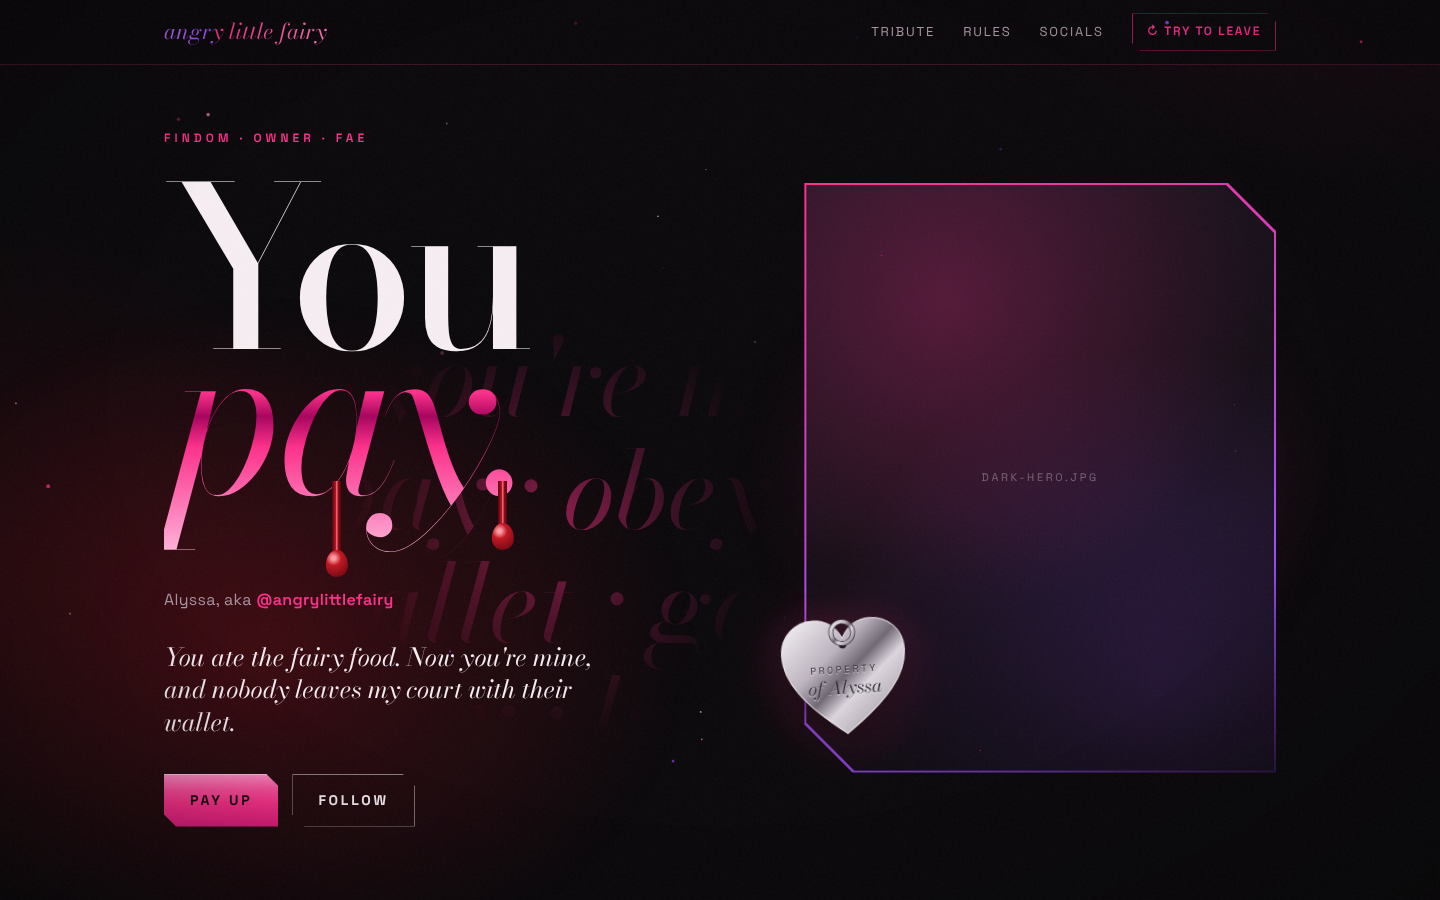
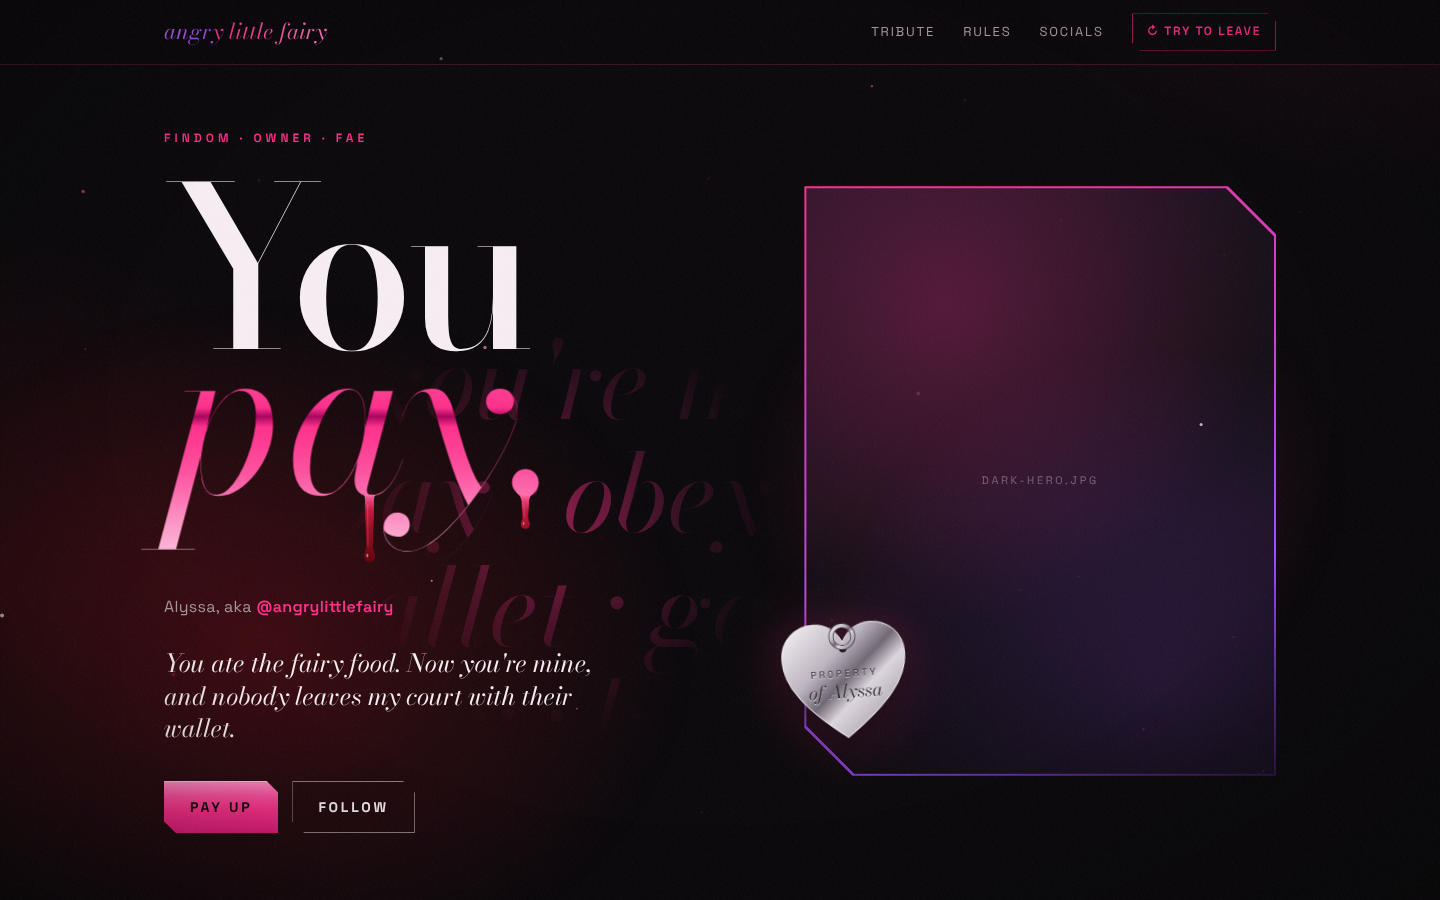
Build the blood drips into the letters of "pay."
Redraw the headline word as an SVG from Bodoni Moda's own glyph outlines so the
drips leave the stem foot of the a and the bottom of the period along the
letters' edges, matching the letter color at the joint and darkening to blood.
Drips grow in on arrival. Adds the build scripts under tools/.

Claude-Session: https://claude.ai/code/session_01Csc1tEQz1VbwPjDFxQWG6q

diff --git a/angrylittlefairy-site/index.html b/angrylittlefairy-site/index.html
@@ -279,21 +279,15 @@
   .dark .hero .wrap { position: relative; z-index: 1; grid-template-columns: 1.1fr .9fr; }
   .dark h1 { font-family: var(--serif); font-weight: 400; font-size: clamp(108px, 15.5vw, 224px); line-height: .9; letter-spacing: -.04em; }
   .dark h1 .l1 { display: block; font-weight: 500; color: var(--ink); }
-  .dark h1 .l2 { position: relative; display: block; width: -moz-fit-content; width: fit-content; line-height: 1; padding: 0 .12em .16em 0; margin-top: -.3em; }
-  .dark h1 .l2 em { font-style: italic; }
-  .drip { /* blood off the letters */
-    position: absolute; top: .8em; width: .042em; height: 0; border-radius: 0 0 1em 1em;
-    background: linear-gradient(90deg, #4a0007 0%, #b5101f 40%, #ff6b74 52%, #8c0713 70%, #4a0007 100%);
-    animation: drip 2.6s 1.5s cubic-bezier(.55,0,.35,1) forwards;
-  }
-  .drip::after {
-    content: ""; position: absolute; left: 50%; bottom: -.05em; width: .1em; height: .12em; transform: translateX(-50%);
-    border-radius: 50% 50% 50% 50% / 58% 58% 42% 42%;
-    background: radial-gradient(circle at 35% 30%, #ff9aa1 0 8%, #c3121f 32%, #5a0009 100%);
-  }
-  .drip.d1 { left: 44%; --len: .38em; }
-  .drip.d2 { left: 87.5%; --len: .26em; animation-delay: 2.3s; }
-  @keyframes drip { to { height: var(--len); } }
+  /* "pay." is drawn from the font's own outlines so the blood can run out of the letters */
+  .dark h1 .l2 { display: block; margin-top: .06em; }
+  .pay-svg { display: block; width: 1.82em; height: .83em; margin-left: -.11em; overflow: visible; }
+  .pay-svg .fall { transform-box: fill-box; transform-origin: 50% 0; animation: fall 2.2s 1.5s cubic-bezier(.5,0,.4,1) both; }
+  .pay-svg .f2 { animation-delay: 2.4s; animation-duration: 1.6s; }
+  @keyframes fall { from { transform: scaleY(0); } to { transform: scaleY(1); } }
+  .pay-shine { animation: payShine 6.5s ease-in-out infinite; }
+  @keyframes payShine { 0%, 55% { transform: translateX(0); } 85%, 100% { transform: translateX(6400px); } }
+  .sr-only { position: absolute; width: 1px; height: 1px; padding: 0; margin: -1px; overflow: hidden; clip: rect(0 0 0 0); white-space: nowrap; border: 0; }
   .dark .handle { font-size: 16px; margin-top: 26px; letter-spacing: .02em; }
   .dark .handle b { color: var(--pink); font-weight: 600; }
   .dark .tagline { font-size: 25px; max-width: 28ch; }
@@ -554,7 +548,6 @@
   }
   @media (prefers-reduced-motion: reduce) {
     *, *::before, *::after { animation: none !important; transition: none !important; }
-    .drip { height: var(--len); }
   }
 </style>
 </head>
@@ -711,7 +704,7 @@
       <div class="wrap">
         <div>
           <p class="eyebrow">Findom · Owner · Fae</p>
-          <h1><span class="l1">You</span><span class="l2"><em class="latex">pay.</em><i class="drip d1" aria-hidden="true"></i><i class="drip d2" aria-hidden="true"></i></span></h1>
+          <h1><span class="l1">You</span> <span class="l2"><span class="sr-only">pay.</span><svg class="pay-svg" viewBox="-220 -1000 3640 1660" aria-hidden="true" focusable="false"><defs><linearGradient id="payG" gradientUnits="userSpaceOnUse" x1="0" y1="-960" x2="0" y2="620"><stop offset="0.0000" stop-color="#ff3d93"/><stop offset="0.1203" stop-color="#ff2d8a"/><stop offset="0.1709" stop-color="#a8005c"/><stop offset="0.2278" stop-color="#ff2d8a"/><stop offset="0.4810" stop-color="#ff4f9f"/><stop offset="0.6076" stop-color="#ff6db0"/><stop offset="0.7975" stop-color="#ff9ccb"/><stop offset="1.0000" stop-color="#ffc4df"/></linearGradient><linearGradient id="payD" gradientUnits="userSpaceOnUse" x1="0" y1="-960" x2="0" y2="620"><stop offset="0.0000" stop-color="#ff3d93"/><stop offset="0.1203" stop-color="#ff2d8a"/><stop offset="0.1709" stop-color="#a8005c"/><stop offset="0.2278" stop-color="#ff2d8a"/><stop offset="0.4810" stop-color="#ff4f9f"/><stop offset="0.6076" stop-color="#ff6db0"/><stop offset="0.6456" stop-color="#ee3d78"/><stop offset="0.7025" stop-color="#c8143f"/><stop offset="0.7975" stop-color="#9e0b1f"/><stop offset="1.0000" stop-color="#5e000b"/></linearGradient><linearGradient id="payS" x1="0" y1="0" x2="1" y2="0"><stop offset=".38" stop-color="#fff" stop-opacity="0"/><stop offset=".5" stop-color="#fff" stop-opacity=".7"/><stop offset=".62" stop-color="#fff" stop-opacity="0"/></linearGradient><mask id="payM" maskUnits="userSpaceOnUse" x="-220" y="-1000" width="3640" height="1660"><path fill="#fff" d="M-49 500 331 -916H187V-920H465L385 -578L347 -426L335 -343L111 500ZM-199 500V496H280V500ZM474 10Q526 10 577.0 -36.5Q628 -83 673.0 -160.0Q718 -237 753.0 -330.5Q788 -424 808.0 -519.0Q828 -614 828 -695Q828 -802 793.0 -862.0Q758 -922 693 -922Q633 -922 579.0 -880.5Q525 -839 480.5 -769.5Q436 -700 403.5 -614.5Q371 -529 353.0 -440.0Q335 -351 335 -272Q335 -155 363.5 -72.5Q392 10 474 10ZM494 20Q423 20 388.0 -22.5Q353 -65 342.0 -132.0Q331 -199 331 -272Q331 -339 343.5 -413.5Q356 -488 380.0 -563.0Q404 -638 438.5 -705.5Q473 -773 517.0 -826.0Q561 -879 614.0 -909.5Q667 -940 727 -940Q861 -940 921.0 -854.5Q981 -769 981 -615Q981 -500 939.0 -387.5Q897 -275 826.0 -183.0Q755 -91 669.0 -35.5Q583 20 494 20Z M1413 20Q1279 20 1219.5 -65.5Q1160 -151 1160 -305Q1160 -420 1202.0 -532.5Q1244 -645 1315.0 -737.0Q1386 -829 1472.5 -884.5Q1559 -940 1647 -940Q1719 -940 1754.0 -897.5Q1789 -855 1799.5 -788.0Q1810 -721 1810 -648Q1810 -582 1797.5 -507.0Q1785 -432 1761.0 -357.0Q1737 -282 1702.5 -214.5Q1668 -147 1623.5 -94.0Q1579 -41 1526.5 -10.5Q1474 20 1413 20ZM1448 2Q1508 2 1561.5 -39.5Q1615 -81 1660.0 -150.5Q1705 -220 1737.5 -305.5Q1770 -391 1788.0 -480.0Q1806 -569 1806 -648Q1806 -726 1794.5 -790.0Q1783 -854 1752.5 -892.0Q1722 -930 1666 -930Q1614 -930 1563.0 -883.5Q1512 -837 1467.0 -760.5Q1422 -684 1387.0 -591.5Q1352 -499 1332.0 -406.0Q1312 -313 1312 -235Q1312 -113 1349.5 -55.5Q1387 2 1448 2ZM1848 20Q1778 20 1745.0 -18.0Q1712 -56 1712 -116Q1712 -133 1713.0 -146.5Q1714 -160 1716 -170L1739 -297L1784 -445L1810 -605L1886 -920H2055L1826 -60Q1822 -45 1822 -28Q1822 -11 1831.5 0.5Q1841 12 1863 12Q1921 12 1968.5 -20.5Q2016 -53 2059.0 -123.5Q2102 -194 2144 -307L2147 -306Q2104 -191 2060.5 -119.0Q2017 -47 1966.0 -13.5Q1915 20 1848 20Z M2189 520Q2122 520 2073.0 492.5Q2024 465 1997.5 416.0Q1971 367 1971 302Q1971 269 1986.0 238.5Q2001 208 2028.5 189.0Q2056 170 2094 170Q2119 170 2145.0 181.0Q2171 192 2188.5 215.5Q2206 239 2206 277Q2206 326 2174.5 356.5Q2143 387 2105 387Q2079 387 2048.0 378.0Q2017 369 1995.0 350.5Q1973 332 1973 302H1975Q1975 366 2001.5 414.0Q2028 462 2076.5 489.0Q2125 516 2189 516Q2267 516 2357.5 461.5Q2448 407 2542.5 314.5Q2637 222 2727.5 106.5Q2818 -9 2897.5 -132.5Q2977 -256 3038.0 -372.0Q3099 -488 3133.5 -582.5Q3168 -677 3168.0 -732.1724137931035Q3168 -773 3154.5 -820.0Q3141 -867 3107.5 -901.0Q3074 -935 3014 -935V-937Q3051 -937 3079.5 -921.0Q3108 -905 3124.0 -879.5Q3140 -854 3140 -826Q3140 -793 3123.0 -767.0Q3106 -741 3078.0 -726.5Q3050 -712 3016 -712Q2956 -712 2923.0 -746.5Q2890 -781 2890 -826Q2890 -872 2924.5 -905.5Q2959 -939 3014 -939Q3075 -939 3109.5 -904.5Q3144 -870 3158.0 -821.5Q3172 -773 3172 -732Q3172 -676 3137.5 -581.5Q3103 -487 3042.0 -370.5Q2981 -254 2901.5 -130.5Q2822 -7 2731.0 109.0Q2640 225 2545.5 318.0Q2451 411 2359.5 465.5Q2268 520 2189 520ZM2731 103Q2695 40 2659.0 -45.5Q2623 -131 2590.0 -228.0Q2557 -325 2526.5 -423.0Q2496 -521 2470.5 -609.0Q2445 -697 2424.5 -765.0Q2404 -833 2390 -869Q2384 -885 2369.9375 -898.5Q2355.875 -912.0 2321 -912Q2287 -912 2238.5 -869.5Q2190 -827 2140 -692L2137 -693Q2170 -783 2207.5 -837.0Q2245 -891 2292.5 -915.0Q2340 -939 2402 -939Q2487 -939 2527.5 -891.0Q2568 -843 2588 -771Q2609 -704 2633.5189189189186 -611.034965034965Q2658.0378378378377 -518.06993006993 2689.197297297297 -417.020979020979Q2720.356756756757 -315.97202797202794 2759.1783783783785 -220.98601398601397Q2798 -126 2847 -54Q2832 -32 2818.5 -13.0Q2805 6 2792.0 23.5Q2779 41 2764.0 60.5Q2749 80 2731 103Z M3243 20Q3210 20 3182.5 4.0Q3155 -12 3138.5 -39.5Q3122 -67 3122 -100Q3122 -133 3138.5 -160.5Q3155 -188 3182.5 -204.5Q3210 -221 3243 -221Q3276 -221 3303.0 -204.5Q3330 -188 3346.0 -160.5Q3362 -133 3362 -100Q3362 -67 3346.0 -39.5Q3330 -12 3303.0 4.0Q3276 20 3243 20Z"/></mask></defs><g fill="url(#payD)"><path d="M1790 11.2C1803.4 15.2 1806 44 1806 84A40 40 0 0 0 1886 84C1886 45.5 1887.3 16.8 1900 14L1900 12L1846 10L1790 8.5Z"/><path d="M3164 -8.2C3186.1 10.3 3209.5 34.2 3209.5 86A32 32 0 0 0 3273.5 86C3273.5 34.2 3296.9 10.3 3319 -8.2L3311 -32L3241.5 -70L3172 -32Z"/><g class="fall f1"><path d="M1806 78C1806 274 1816 352.4 1816 470C1816 515 1796 529 1796 560C1796 599 1818 614 1846 614C1874 614 1896 599 1896 560C1896 529 1876 515 1876 470C1876 352.4 1886 274 1886 78Z"/><path d="M1829.2 98C1830 260.4 1832.5 391.6 1831 470" fill="none" stroke="#fff" stroke-opacity=".22" stroke-width="7" stroke-linecap="round"/><ellipse cx="1826" cy="555" rx="9" ry="16" fill="#fff" opacity=".5"/></g><g class="fall f2"><path d="M3209.5 80C3209.5 146 3216.5 172.4 3216.5 212C3216.5 242 3201.5 247.2 3201.5 272C3201.5 303.2 3219.1 315.2 3241.5 315.2C3263.9 315.2 3281.5 303.2 3281.5 272C3281.5 247.2 3266.5 242 3266.5 212C3266.5 172.4 3273.5 146 3273.5 80Z"/><path d="M3228.1 100C3228.7 145.4 3230.2 185.6 3229 212" fill="none" stroke="#fff" stroke-opacity=".22" stroke-width="7" stroke-linecap="round"/><ellipse cx="3225.5" cy="268" rx="7.2" ry="12.8" fill="#fff" opacity=".5"/></g></g><path fill="url(#payG)" d="M-49 500 331 -916H187V-920H465L385 -578L347 -426L335 -343L111 500ZM-199 500V496H280V500ZM474 10Q526 10 577.0 -36.5Q628 -83 673.0 -160.0Q718 -237 753.0 -330.5Q788 -424 808.0 -519.0Q828 -614 828 -695Q828 -802 793.0 -862.0Q758 -922 693 -922Q633 -922 579.0 -880.5Q525 -839 480.5 -769.5Q436 -700 403.5 -614.5Q371 -529 353.0 -440.0Q335 -351 335 -272Q335 -155 363.5 -72.5Q392 10 474 10ZM494 20Q423 20 388.0 -22.5Q353 -65 342.0 -132.0Q331 -199 331 -272Q331 -339 343.5 -413.5Q356 -488 380.0 -563.0Q404 -638 438.5 -705.5Q473 -773 517.0 -826.0Q561 -879 614.0 -909.5Q667 -940 727 -940Q861 -940 921.0 -854.5Q981 -769 981 -615Q981 -500 939.0 -387.5Q897 -275 826.0 -183.0Q755 -91 669.0 -35.5Q583 20 494 20Z M1413 20Q1279 20 1219.5 -65.5Q1160 -151 1160 -305Q1160 -420 1202.0 -532.5Q1244 -645 1315.0 -737.0Q1386 -829 1472.5 -884.5Q1559 -940 1647 -940Q1719 -940 1754.0 -897.5Q1789 -855 1799.5 -788.0Q1810 -721 1810 -648Q1810 -582 1797.5 -507.0Q1785 -432 1761.0 -357.0Q1737 -282 1702.5 -214.5Q1668 -147 1623.5 -94.0Q1579 -41 1526.5 -10.5Q1474 20 1413 20ZM1448 2Q1508 2 1561.5 -39.5Q1615 -81 1660.0 -150.5Q1705 -220 1737.5 -305.5Q1770 -391 1788.0 -480.0Q1806 -569 1806 -648Q1806 -726 1794.5 -790.0Q1783 -854 1752.5 -892.0Q1722 -930 1666 -930Q1614 -930 1563.0 -883.5Q1512 -837 1467.0 -760.5Q1422 -684 1387.0 -591.5Q1352 -499 1332.0 -406.0Q1312 -313 1312 -235Q1312 -113 1349.5 -55.5Q1387 2 1448 2ZM1848 20Q1778 20 1745.0 -18.0Q1712 -56 1712 -116Q1712 -133 1713.0 -146.5Q1714 -160 1716 -170L1739 -297L1784 -445L1810 -605L1886 -920H2055L1826 -60Q1822 -45 1822 -28Q1822 -11 1831.5 0.5Q1841 12 1863 12Q1921 12 1968.5 -20.5Q2016 -53 2059.0 -123.5Q2102 -194 2144 -307L2147 -306Q2104 -191 2060.5 -119.0Q2017 -47 1966.0 -13.5Q1915 20 1848 20Z M2189 520Q2122 520 2073.0 492.5Q2024 465 1997.5 416.0Q1971 367 1971 302Q1971 269 1986.0 238.5Q2001 208 2028.5 189.0Q2056 170 2094 170Q2119 170 2145.0 181.0Q2171 192 2188.5 215.5Q2206 239 2206 277Q2206 326 2174.5 356.5Q2143 387 2105 387Q2079 387 2048.0 378.0Q2017 369 1995.0 350.5Q1973 332 1973 302H1975Q1975 366 2001.5 414.0Q2028 462 2076.5 489.0Q2125 516 2189 516Q2267 516 2357.5 461.5Q2448 407 2542.5 314.5Q2637 222 2727.5 106.5Q2818 -9 2897.5 -132.5Q2977 -256 3038.0 -372.0Q3099 -488 3133.5 -582.5Q3168 -677 3168.0 -732.1724137931035Q3168 -773 3154.5 -820.0Q3141 -867 3107.5 -901.0Q3074 -935 3014 -935V-937Q3051 -937 3079.5 -921.0Q3108 -905 3124.0 -879.5Q3140 -854 3140 -826Q3140 -793 3123.0 -767.0Q3106 -741 3078.0 -726.5Q3050 -712 3016 -712Q2956 -712 2923.0 -746.5Q2890 -781 2890 -826Q2890 -872 2924.5 -905.5Q2959 -939 3014 -939Q3075 -939 3109.5 -904.5Q3144 -870 3158.0 -821.5Q3172 -773 3172 -732Q3172 -676 3137.5 -581.5Q3103 -487 3042.0 -370.5Q2981 -254 2901.5 -130.5Q2822 -7 2731.0 109.0Q2640 225 2545.5 318.0Q2451 411 2359.5 465.5Q2268 520 2189 520ZM2731 103Q2695 40 2659.0 -45.5Q2623 -131 2590.0 -228.0Q2557 -325 2526.5 -423.0Q2496 -521 2470.5 -609.0Q2445 -697 2424.5 -765.0Q2404 -833 2390 -869Q2384 -885 2369.9375 -898.5Q2355.875 -912.0 2321 -912Q2287 -912 2238.5 -869.5Q2190 -827 2140 -692L2137 -693Q2170 -783 2207.5 -837.0Q2245 -891 2292.5 -915.0Q2340 -939 2402 -939Q2487 -939 2527.5 -891.0Q2568 -843 2588 -771Q2609 -704 2633.5189189189186 -611.034965034965Q2658.0378378378377 -518.06993006993 2689.197297297297 -417.020979020979Q2720.356756756757 -315.97202797202794 2759.1783783783785 -220.98601398601397Q2798 -126 2847 -54Q2832 -32 2818.5 -13.0Q2805 6 2792.0 23.5Q2779 41 2764.0 60.5Q2749 80 2731 103Z M3243 20Q3210 20 3182.5 4.0Q3155 -12 3138.5 -39.5Q3122 -67 3122 -100Q3122 -133 3138.5 -160.5Q3155 -188 3182.5 -204.5Q3210 -221 3243 -221Q3276 -221 3303.0 -204.5Q3330 -188 3346.0 -160.5Q3362 -133 3362 -100Q3362 -67 3346.0 -39.5Q3330 -12 3303.0 4.0Q3276 20 3243 20Z"/><g mask="url(#payM)"><rect class="pay-shine" x="-2820" y="-1000" width="2600" height="1660" fill="url(#payS)"/></g></svg></span></h1>
           <p class="handle">Alyssa, aka <b>@angrylittlefairy</b></p>
           <!-- EDIT: wicked side tagline -->
           <p class="tagline">You ate the fairy food. Now you're mine, and nobody leaves my court with their wallet.</p>

diff --git a/angrylittlefairy-site/tools/build_pay.py b/angrylittlefairy-site/tools/build_pay.py
@@ -1,0 +1,70 @@
+import json, math, sys
+
+data = json.load(open(sys.argv[1] if len(sys.argv) > 1 else 'pay.json'))
+glyph_d = ' '.join(g['d'] for g in data['glyphs'])
+
+def norm(v):
+    l = math.hypot(*v); return (v[0] / l, v[1] / l)
+
+def f(v): return f"{v:.1f}".rstrip('0').rstrip('.')
+
+def drip(PL, dL, PR, dR, cx, w0, y_neck, close, w1, y_w, R, y_b):
+    """Neck piece leaves the letter along its own edge and pinches to half-width w0 at y_neck.
+    Fall piece: tapered stem (w0 -> w1 at y_w), then a teardrop widest (R) at y_b."""
+    (xl, yl), (xr, yr) = PL, PR
+    dL, dR = norm(dL), norm(dR)
+    a1 = 0.5 * abs((cx - w0) - xl) + 6; b1 = 0.55 * (y_neck - yl)
+    a2 = 0.5 * abs(xr - (cx + w0)) + 6; b2 = 0.55 * (y_neck - yr)
+    p1 = (xl + dL[0] * a1, yl + dL[1] * a1); p2 = (cx - w0, y_neck - b1)
+    q1 = (cx + w0, y_neck - b2); q2 = (xr - dR[0] * a2, yr - dR[1] * a2)
+    neck = (f"M{f(xl)} {f(yl)}C{f(p1[0])} {f(p1[1])} {f(p2[0])} {f(p2[1])} {f(cx-w0)} {f(y_neck)}"
+            f"A{f(w0)} {f(w0)} 0 0 0 {f(cx+w0)} {f(y_neck)}"
+            f"C{f(q1[0])} {f(q1[1])} {f(q2[0])} {f(q2[1])} {f(xr)} {f(yr)}")
+    for (x, y) in close: neck += f"L{f(x)} {f(y)}"
+    neck += "Z"
+    top = y_neck - 6; seg = y_w - top; y_end = y_b + R * 1.08
+    fall = (f"M{f(cx-w0)} {f(top)}"
+            f"C{f(cx-w0)} {f(top+seg*.5)} {f(cx-w1)} {f(y_w-seg*.3)} {f(cx-w1)} {f(y_w)}"
+            f"C{f(cx-w1)} {f(y_w+(y_b-y_w)*.5)} {f(cx-R)} {f(y_b-R*.62)} {f(cx-R)} {f(y_b)}"
+            f"C{f(cx-R)} {f(y_b+R*.78)} {f(cx-R*.56)} {f(y_end)} {f(cx)} {f(y_end)}"
+            f"C{f(cx+R*.56)} {f(y_end)} {f(cx+R)} {f(y_b+R*.78)} {f(cx+R)} {f(y_b)}"
+            f"C{f(cx+R)} {f(y_b-R*.62)} {f(cx+w1)} {f(y_w+(y_b-y_w)*.5)} {f(cx+w1)} {f(y_w)}"
+            f"C{f(cx+w1)} {f(y_w-seg*.3)} {f(cx+w0)} {f(top+seg*.5)} {f(cx+w0)} {f(top)}Z")
+    streak = f"M{f(cx-w0*.42)} {f(y_neck+14)}C{f(cx-w0*.4)} {f(y_neck+seg*.45)} {f(cx-w1*.45)} {f(y_w-seg*.2)} {f(cx-w1*.5)} {f(y_w)}"
+    shine = (cx - R * .4, y_b - R * .1, R * .18, R * .32)
+    return neck, fall, shine, streak
+
+# a: hangs from the lowest point of the stem foot (measured contour)
+a_neck, a_fall, a_hl, a_st = drip(PL=(1790, 11.2), dL=(1, .3), PR=(1900, 14), dR=(1, -.22),
+                            cx=1846, w0=40, y_neck=84, close=[(1900, 12), (1846, 10), (1790, 8.5)], w1=30, y_w=470, R=50, y_b=560)
+# period: forms out of the bottom of the dot, leaving the circle on its own tangent
+C, r, th = (3241.5, -100.5), 120.5, math.radians(40)
+PL = (C[0] - r * math.sin(th), C[1] + r * math.cos(th)); PR = (C[0] + r * math.sin(th), C[1] + r * math.cos(th))
+p_neck, p_fall, p_hl, p_st = drip(PL=PL, dL=(math.cos(th), math.sin(th)), PR=PR, dR=(math.cos(th), -math.sin(th)),
+                            cx=C[0], w0=32, y_neck=86, close=[(PR[0] - 8, -32), (C[0], -70), (PL[0] + 8, -32)], w1=25, y_w=212, R=40, y_b=272)
+
+VX, VY, VW, VH = -220, -1000, 3640, 1660
+# one vertical gradient for the letters, a second for the drips that matches it exactly down to the baseline, then turns to blood
+y1, y2 = -960, 620
+def off(y): return f"{(y - y1) / (y2 - y1):.4f}"
+glyph_stops = [(-960, '#ff3d93'), (-770, '#ff2d8a'), (-690, '#a8005c'), (-600, '#ff2d8a'), (-200, '#ff4f9f'), (0, '#ff6db0'), (300, '#ff9ccb'), (620, '#ffc4df')]
+drip_stops = [(-960, '#ff3d93'), (-770, '#ff2d8a'), (-690, '#a8005c'), (-600, '#ff2d8a'), (-200, '#ff4f9f'), (0, '#ff6db0'), (60, '#ee3d78'), (150, '#c8143f'), (300, '#9e0b1f'), (620, '#5e000b')]
+def grad(id_, stops):
+    s = ''.join(f'<stop offset="{off(y)}" stop-color="{c}"/>' for y, c in stops)
+    return f'<linearGradient id="{id_}" gradientUnits="userSpaceOnUse" x1="0" y1="{y1}" x2="0" y2="{y2}">{s}</linearGradient>'
+
+def st(d): return f'<path d="{d}" fill="none" stroke="#fff" stroke-opacity=".22" stroke-width="7" stroke-linecap="round"/>'
+def hl(e): return f'<ellipse cx="{f(e[0])}" cy="{f(e[1])}" rx="{f(e[2])}" ry="{f(e[3])}" fill="#fff" opacity=".5"/>'
+
+svg = (f'<svg class="pay-svg" viewBox="{VX} {VY} {VW} {VH}" aria-hidden="true" focusable="false">'
+       f'<defs>{grad("payG", glyph_stops)}{grad("payD", drip_stops)}'
+       f'<linearGradient id="payS" x1="0" y1="0" x2="1" y2="0"><stop offset=".38" stop-color="#fff" stop-opacity="0"/><stop offset=".5" stop-color="#fff" stop-opacity=".7"/><stop offset=".62" stop-color="#fff" stop-opacity="0"/></linearGradient>'
+       f'<mask id="payM" maskUnits="userSpaceOnUse" x="{VX}" y="{VY}" width="{VW}" height="{VH}"><path fill="#fff" d="{glyph_d}"/></mask></defs>'
+       f'<g fill="url(#payD)"><path d="{a_neck}"/><path d="{p_neck}"/>'
+       f'<g class="fall f1"><path d="{a_fall}"/>{st(a_st)}{hl(a_hl)}</g>'
+       f'<g class="fall f2"><path d="{p_fall}"/>{st(p_st)}{hl(p_hl)}</g></g>'
+       f'<path fill="url(#payG)" d="{glyph_d}"/>'
+       f'<g mask="url(#payM)"><rect class="pay-shine" x="{VX - 2600}" y="{VY}" width="2600" height="{VH}" fill="url(#payS)"/></g>'
+       f'</svg>')
+open(sys.argv[2] if len(sys.argv) > 2 else 'pay.svg.html', 'w').write(svg)
+print(len(svg), 'bytes')

diff --git a/angrylittlefairy-site/tools/glyphs.py b/angrylittlefairy-site/tools/glyphs.py
@@ -1,0 +1,35 @@
+import sys, json
+from fontTools.ttLib import TTFont
+from fontTools.varLib import instancer
+from fontTools.pens.svgPathPen import SVGPathPen
+from fontTools.pens.transformPen import TransformPen
+from fontTools.pens.boundsPen import BoundsPen
+import uharfbuzz as hb
+
+src = sys.argv[1]
+f = TTFont(src)
+print('axes', [(a.axisTag, a.minValue, a.defaultValue, a.maxValue) for a in f['fvar'].axes])
+inst = instancer.instantiateVariableFont(f, {"wght": 400, "opsz": 96})
+inst.flavor = None
+inst.save(sys.argv[2])
+upm = inst['head'].unitsPerEm
+hhea = inst['hhea']; os2 = inst['OS/2']
+print('upm', upm, 'hhea asc/desc', hhea.ascent, hhea.descent, 'typo', os2.sTypoAscender, os2.sTypoDescender, 'win', os2.usWinAscent, os2.usWinDescent, 'xh', getattr(os2,'sxHeight',None))
+
+blob = hb.Blob.from_file_path(sys.argv[2])
+face = hb.Face(blob); font = hb.Font(face)
+buf = hb.Buffer(); buf.add_str("pay."); buf.guess_segment_properties()
+hb.shape(font, buf, {"kern": True, "liga": True})
+gs = inst.getGlyphSet(); order = inst.getGlyphOrder()
+x = 0; out = []
+for info, pos in zip(buf.glyph_infos, buf.glyph_positions):
+    name = order[info.codepoint]
+    bp = BoundsPen(gs); gs[name].draw(bp)
+    pen = SVGPathPen(gs)
+    tp = TransformPen(pen, (1, 0, 0, -1, x + pos.x_offset, 0))  # y down, baseline at 0
+    gs[name].draw(tp)
+    out.append({"name": name, "x": x + pos.x_offset, "adv": pos.x_advance, "bounds": bp.bounds, "d": pen.getCommands()})
+    x += pos.x_advance
+print('total advance', x)
+for g in out: print(g['name'], 'x', g['x'], 'adv', g['adv'], 'bounds', g['bounds'])
+json.dump({"upm": upm, "glyphs": out, "advance": x}, open(sys.argv[3], 'w'))

diff --git a/angrylittlefairy-site/README.md b/angrylittlefairy-site/README.md
@@ -16,6 +16,7 @@ then the whole page flips to the wicked side. `angrylittlefairy.com/#wicked` lin
 
 ## Wicked side extras
 - Look: black latex and satin, hard pink, purple and chrome. Red only shows up as blood: the drips off "pay." and a faint glow.
+- "pay." in the hero is an inline SVG drawn from Bodoni Moda's real glyph outlines, so the blood drips leave the letters along their own edges (foot of the "a", bottom of the period). To rebuild it after changing the drips: `python3 tools/glyphs.py <BodoniModa-Italic.woff2> instance.ttf pay.json` then `python3 tools/build_pay.py pay.json pay.svg.html`, and paste the SVG over the old one.
 - Her photo wears a chrome heart collar tag that says "Property of Alyssa". Chain-and-heart-padlock dividers sit between sections.
 - "Settle your tab" shows a black card owned by her (number ends in MINE, valid thru forever) that tilts toward the cursor.
 - Hidden words ("mine", "obey", "you're mine", "good little wallet") sit behind the hero and only show under the cursor. On phones the light drifts on its own.
